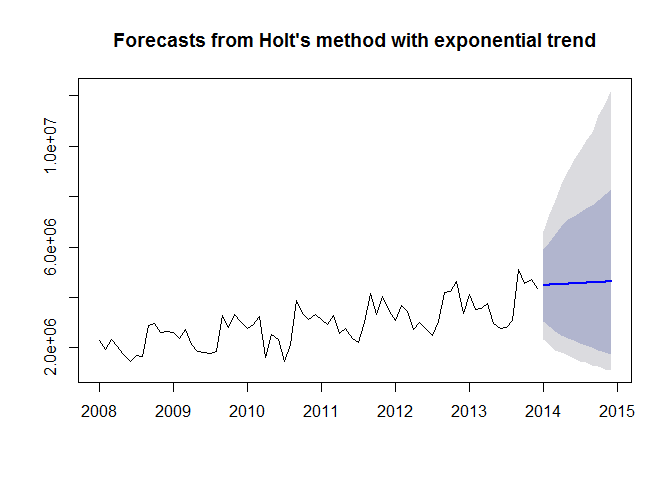
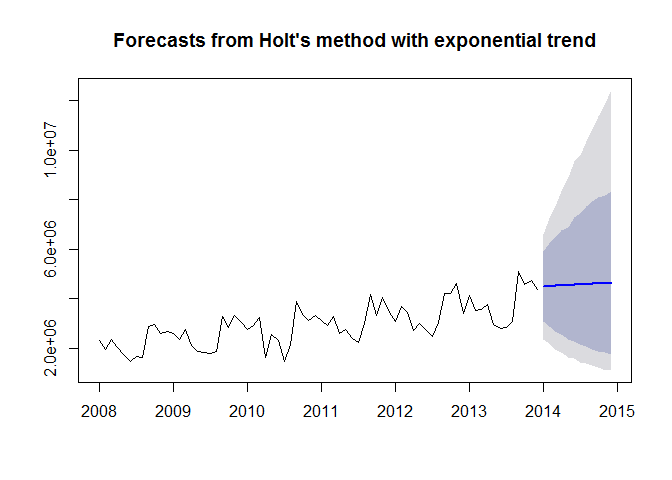
Testing
1..2..3

diff --git a/ChulwalarCode.html b/ChulwalarCode.html
@@ -785,20 +785,20 @@ summary(Model_holt_2)</code></pre>
 ## 
 ## Forecasts:
 ##          Point Forecast   Lo 80   Hi 80   Lo 95    Hi 95
-## Jan 2014        4488281 3060471 5903654 2323887  6624581
-## Feb 2014        4502175 2851883 6185583 2139737  7303804
-## Mar 2014        4516113 2644797 6501809 1905081  7841880
-## Apr 2014        4530094 2500869 6836338 1824345  8496679
-## May 2014        4544118 2374932 7104656 1691885  9056553
-## Jun 2014        4558186 2274687 7218532 1566098  9486479
-## Jul 2014        4572297 2162669 7390353 1463677  9817281
-## Aug 2014        4586452 2079471 7522613 1410278 10240106
-## Sep 2014        4600650 2003849 7639678 1318852 10564703
-## Oct 2014        4614893 1910314 7842706 1243044 11224937
-## Nov 2014        4629180 1806233 8098275 1150033 11699546
-## Dec 2014        4643510 1747147 8292833 1089239 12239483</code></pre>
+## Jan 2014        4488281 3090465 5905649 2333877  6585057
+## Feb 2014        4502175 2869750 6237214 2179486  7254105
+## Mar 2014        4516113 2685877 6482147 1932880  7714919
+## Apr 2014        4530094 2548612 6771663 1822770  8347449
+## May 2014        4544118 2358717 6894120 1639344  8908828
+## Jun 2014        4558186 2269087 7275999 1598783  9531858
+## Jul 2014        4572297 2155771 7452945 1439797  9795064
+## Aug 2014        4586452 2071475 7728810 1373359 10329339
+## Sep 2014        4600650 1941529 7915913 1308906 10818762
+## Oct 2014        4614893 1875131 8091501 1207508 11352766
+## Nov 2014        4629180 1810108 8153271 1121197 11892778
+## Dec 2014        4643510 1757100 8329938 1087677 12427638</code></pre>
 <pre class="r"><code>plot(Model_holt_2)</code></pre>
[2 lines of base64/hex data omitted]
 </div>
 <div id="dampened-trends" class="section level2">
 <h2>Dampened trends</h2>
@@ -882,21 +882,21 @@ summary(Model_holt_4)</code></pre>
 ## Training set 0.0254941
 ## 
 ## Forecasts:
-##          Point Forecast   Lo 80   Hi 80     Lo 95    Hi 95
-## Jan 2014        4470648 3061166 5884769 2303141.8  6579572
-## Feb 2014        4473164 2848273 6138822 2095820.5  7254474
-## Mar 2014        4475630 2661334 6454154 1889255.1  7803629
-## Apr 2014        4478047 2443880 6619847 1745379.6  8327238
-## May 2014        4480418 2327040 6815195 1617317.9  8628486
-## Jun 2014        4482742 2133308 7113578 1463961.8  9301669
-## Jul 2014        4485020 2035098 7205570 1423510.8  9567002
-## Aug 2014        4487253 1943200 7402201 1304983.2 10022848
-## Sep 2014        4489443 1824340 7529721 1191141.8 10507485
-## Oct 2014        4491589 1795522 7672482 1108412.1 10731097
-## Nov 2014        4493694 1666034 7743726 1036115.1 10874268
-## Dec 2014        4495757 1617336 8009149  986146.3 11512663</code></pre>
+##          Point Forecast   Lo 80   Hi 80   Lo 95    Hi 95
+## Jan 2014        4470648 3046497 5860877 2368925  6613179
+## Feb 2014        4473164 2834578 6205750 2102719  7282479
+## Mar 2014        4475630 2645276 6477493 1958574  7854483
+## Apr 2014        4478047 2476407 6771287 1759854  8556983
+## May 2014        4480418 2331929 6995914 1616711  9003731
+## Jun 2014        4482742 2205852 7193279 1545755  9465077
+## Jul 2014        4485020 2083528 7356816 1373434  9798596
+## Aug 2014        4487253 1947654 7537031 1307802 10314664
+## Sep 2014        4489443 1886495 7723230 1230072 10810228
+## Oct 2014        4491589 1787345 7824587 1136108 11184663
+## Nov 2014        4493694 1750008 7985415 1117149 11498636
+## Dec 2014        4495757 1629976 8181761 1055661 11988744</code></pre>
 <pre class="r"><code>plot(Model_holt_4)</code></pre>
[2 lines of base64/hex data omitted]
 <pre class="r"><code># level and slope can be plotted individually for each model. 
 plot(Model_holt_1$model$state)</code></pre>
[1 lines of base64/hex data omitted]
@@ -1056,7 +1056,7 @@ Model_hw_2_PointForecast</code></pre>
 </div>
 <div id="recommendation-to-chulwalr-prime-minister" class="section level2">
 <h2>Recommendation to Chulwalr Prime Minister:</h2>
-<p>I need more Cowbell!</p>
+<p>When reviewing the different plots between efak, Wuge, and Etel. The primary export recommended would be Efak. It shows a strong linear progression from 2008 and is resistant to large swings in seasonal, export, and social holidays.</p>
 </div>
 </div>
 

diff --git a/ChulwalarCode.md b/ChulwalarCode.md
@@ -1476,18 +1476,18 @@ summary(Model_holt_2)
 ## 
 ## Forecasts:
 ##          Point Forecast   Lo 80   Hi 80   Lo 95    Hi 95
-## Jan 2014        4488281 3060471 5903654 2323887  6624581
-## Feb 2014        4502175 2851883 6185583 2139737  7303804
-## Mar 2014        4516113 2644797 6501809 1905081  7841880
-## Apr 2014        4530094 2500869 6836338 1824345  8496679
-## May 2014        4544118 2374932 7104656 1691885  9056553
-## Jun 2014        4558186 2274687 7218532 1566098  9486479
-## Jul 2014        4572297 2162669 7390353 1463677  9817281
-## Aug 2014        4586452 2079471 7522613 1410278 10240106
-## Sep 2014        4600650 2003849 7639678 1318852 10564703
-## Oct 2014        4614893 1910314 7842706 1243044 11224937
-## Nov 2014        4629180 1806233 8098275 1150033 11699546
-## Dec 2014        4643510 1747147 8292833 1089239 12239483
+## Jan 2014        4488281 3090465 5905649 2333877  6585057
+## Feb 2014        4502175 2869750 6237214 2179486  7254105
+## Mar 2014        4516113 2685877 6482147 1932880  7714919
+## Apr 2014        4530094 2548612 6771663 1822770  8347449
+## May 2014        4544118 2358717 6894120 1639344  8908828
+## Jun 2014        4558186 2269087 7275999 1598783  9531858
+## Jul 2014        4572297 2155771 7452945 1439797  9795064
+## Aug 2014        4586452 2071475 7728810 1373359 10329339
+## Sep 2014        4600650 1941529 7915913 1308906 10818762
+## Oct 2014        4614893 1875131 8091501 1207508 11352766
+## Nov 2014        4629180 1810108 8153271 1121197 11892778
+## Dec 2014        4643510 1757100 8329938 1087677 12427638
 ```
 
 ```r
@@ -1592,19 +1592,19 @@ summary(Model_holt_4)
 ## Training set 0.0254941
 ## 
 ## Forecasts:
-##          Point Forecast   Lo 80   Hi 80     Lo 95    Hi 95
-## Jan 2014        4470648 3061166 5884769 2303141.8  6579572
-## Feb 2014        4473164 2848273 6138822 2095820.5  7254474
-## Mar 2014        4475630 2661334 6454154 1889255.1  7803629
-## Apr 2014        4478047 2443880 6619847 1745379.6  8327238
-## May 2014        4480418 2327040 6815195 1617317.9  8628486
-## Jun 2014        4482742 2133308 7113578 1463961.8  9301669
-## Jul 2014        4485020 2035098 7205570 1423510.8  9567002
-## Aug 2014        4487253 1943200 7402201 1304983.2 10022848
-## Sep 2014        4489443 1824340 7529721 1191141.8 10507485
-## Oct 2014        4491589 1795522 7672482 1108412.1 10731097
-## Nov 2014        4493694 1666034 7743726 1036115.1 10874268
-## Dec 2014        4495757 1617336 8009149  986146.3 11512663
+##          Point Forecast   Lo 80   Hi 80   Lo 95    Hi 95
+## Jan 2014        4470648 3046497 5860877 2368925  6613179
+## Feb 2014        4473164 2834578 6205750 2102719  7282479
+## Mar 2014        4475630 2645276 6477493 1958574  7854483
+## Apr 2014        4478047 2476407 6771287 1759854  8556983
+## May 2014        4480418 2331929 6995914 1616711  9003731
+## Jun 2014        4482742 2205852 7193279 1545755  9465077
+## Jul 2014        4485020 2083528 7356816 1373434  9798596
+## Aug 2014        4487253 1947654 7537031 1307802 10314664
+## Sep 2014        4489443 1886495 7723230 1230072 10810228
+## Oct 2014        4491589 1787345 7824587 1136108 11184663
+## Nov 2014        4493694 1750008 7985415 1117149 11498636
+## Dec 2014        4495757 1629976 8181761 1055661 11988744
 ```
 
 ```r
@@ -1832,4 +1832,4 @@ When reviewing the different forecast model that was determined, and based on re
 All of the models are equally good when considering the specific data. Based on observation and analysis of the data, any model that provides trend analyses, seasonal interpretation (additive/multiplicative) and greater interpretation of potential error is the one chosen. The model that produces the more accurate forecast with a low U1 statistic  between 0 and 1 indicate greater forecasting accuracy while taking into account potential forecasting bias that is captured by Mean Error "ME" 
 
 ## Recommendation to Chulwalr Prime Minister:
-I need more Cowbell!
+When reviewing the different plots between efak, Wuge, and Etel. The primary export recommended would be Efak. It shows a strong linear progression from 2008 and is resistant to large swings in seasonal, export, and social holidays.
